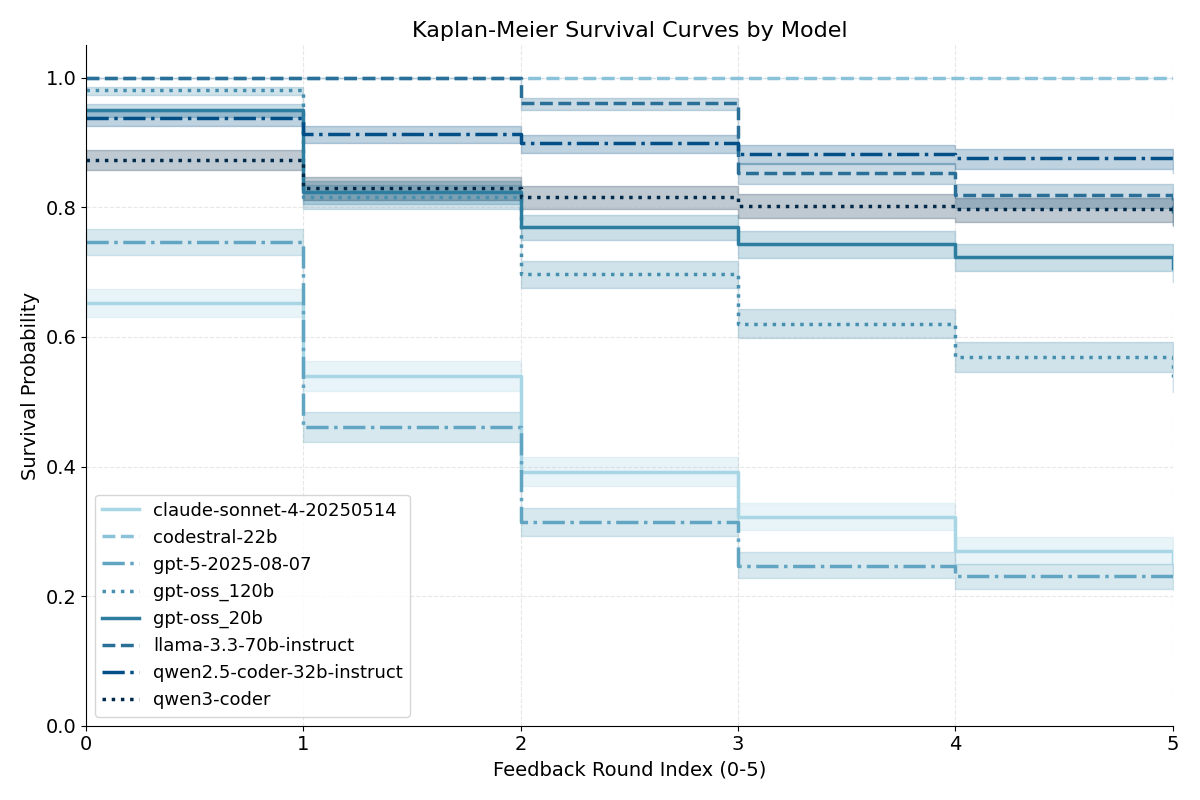
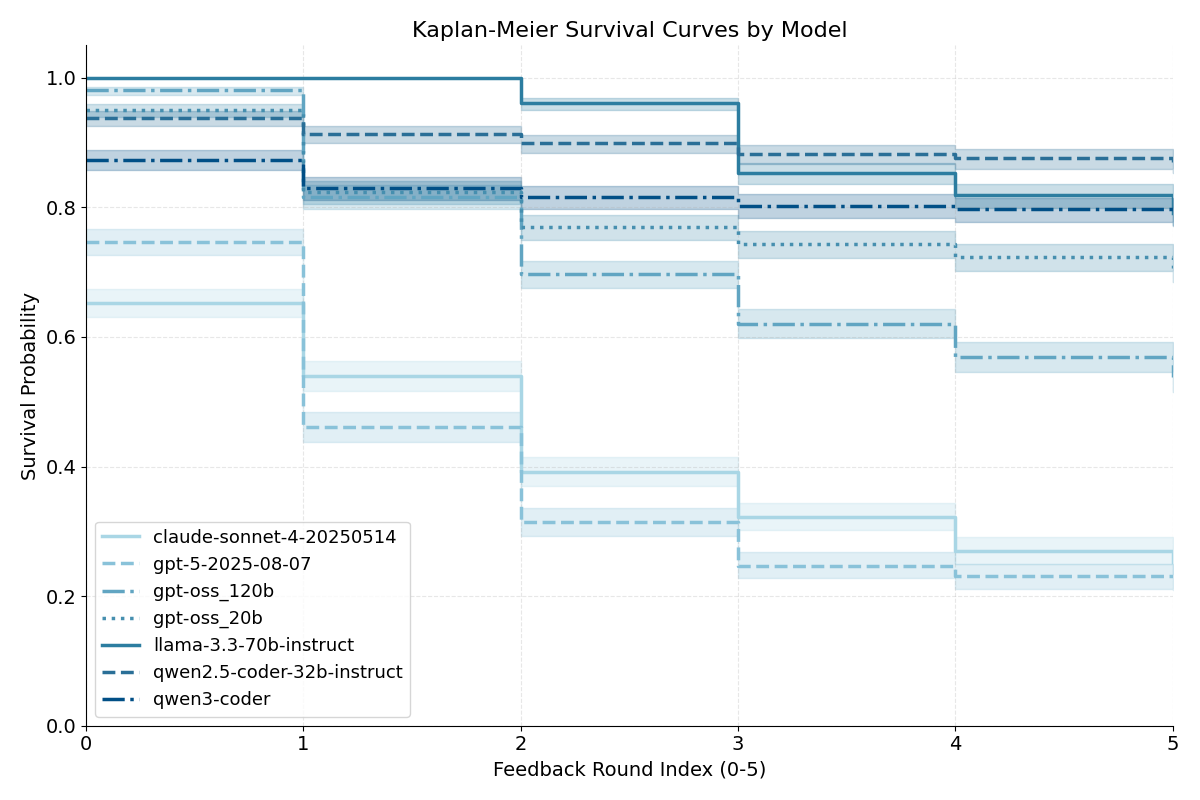
cleanup plots

diff --git a/analysis/success_distribution.py b/analysis/success_distribution.py
@@ -99,12 +99,12 @@ def plot_comparative_histogram(model_data):
     ax.legend()
     
     plt.tight_layout()
-    output_file = 'plots/success_distribution.png'
+    output_file = '../plots/success_distribution.png'
     plt.savefig(output_file)
     print(f"Saved plot to {output_file}")
 
 if __name__ == "__main__":
-    file_path = 'data/results.csv'
+    file_path = '../data/results.csv'
     data = get_success_rates_by_model(file_path)
     if data:
         plot_comparative_histogram(data)

diff --git a/analysis/km_analysis.py b/analysis/km_analysis.py
@@ -34,6 +34,7 @@ def run_analysis():
     plt.figure(figsize=(12, 8))
     
     models = df['Model'].unique()
+    models = [m for m in models if 'codestral' not in m.lower()]
 
     print(f"Found {len(models)} models: {models}\n")
 

diff --git a/analysis/plot_success_by_round.py b/analysis/plot_success_by_round.py
@@ -15,6 +15,7 @@ def get_model_data_from_csv(file_path):
         return None, None
 
     models = df['Model'].unique()
+    models = [m for m in models if 'codestral' not in m.lower()]
 
     
     model_data = {}

diff --git a/analysis/plot_success_by_category.py b/analysis/plot_success_by_category.py
@@ -15,6 +15,7 @@ def get_category_data_from_csv(file_path):
         return None, None
 
     models = df['Model'].unique()
+    models = [m for m in models if 'codestral' not in m.lower()]
 
 
     categories = [
